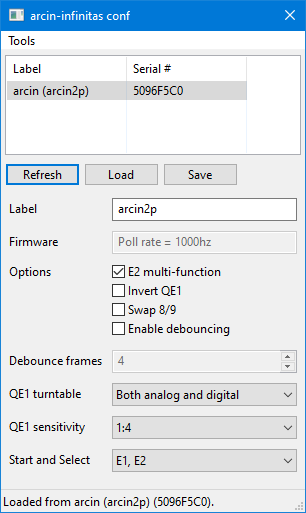
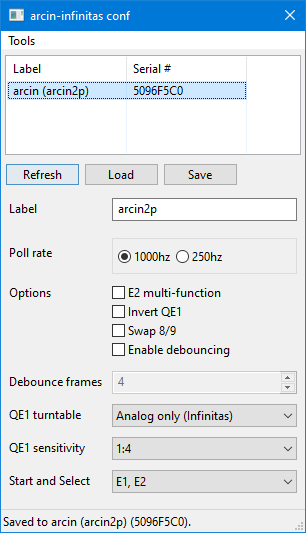
add 250hz toggle

diff --git a/main.py b/main.py
@@ -59,7 +59,7 @@ ARCIN_CONFIG_FLAG_INVERT_QE1             = (1 << 1)
 ARCIN_CONFIG_FLAG_SWAP_8_9               = (1 << 2)
 ARCIN_CONFIG_FLAG_DIGITAL_TT_ENABLE      = (1 << 3)
 ARCIN_CONFIG_FLAG_DEBOUNCE               = (1 << 4)
-ARCIN_CONFIG_FLAG_250HZ_READ_ONLY        = (1 << 5)
+ARCIN_CONFIG_FLAG_250HZ_MODE             = (1 << 5)
 ARCIN_CONFIG_FLAG_ANALOG_TT_FORCE_ENABLE = (1 << 6)
 
 def get_devices():
@@ -164,7 +164,7 @@ class MainWindowFrame(wx.Frame):
     e1e2_ctrl = None
 
     def __init__(self, *args, **kw):
-        default_size = (320, 520)
+        default_size = (320, 540)
         kw['size'] = default_size
         kw['style'] = (
             wx.RESIZE_BORDER |
@@ -220,11 +220,10 @@ class MainWindowFrame(wx.Frame):
         grid.Add(self.title_ctrl, pos=(row, 1), flag=wx.EXPAND)
         row += 1
 
-        fw_label = wx.StaticText(panel, label="Firmware")
-        self.fw_ctrl = wx.TextCtrl(panel, style=wx.TE_READONLY)
-        self.fw_ctrl.Disable()
+        fw_label = wx.StaticText(panel, label="Poll rate")
+        self.poll_rate_ctrl = wx.RadioBox(panel, choices=["1000hz", "250hz"])
         grid.Add(fw_label, pos=(row, 0), flag=wx.ALIGN_CENTER_VERTICAL)
-        grid.Add(self.fw_ctrl, pos=(row, 1), flag=wx.EXPAND)
+        grid.Add(self.poll_rate_ctrl, pos=(row, 1), flag=wx.EXPAND)
         row += 1
 
         checklist_label = wx.StaticText(panel, label="Options")
@@ -417,6 +416,9 @@ class MainWindowFrame(wx.Frame):
         if self.debounce_check.IsChecked():
             flags |= ARCIN_CONFIG_FLAG_DEBOUNCE
 
+        if self.poll_rate_ctrl.GetSelection() == 1:
+            flags |= ARCIN_CONFIG_FLAG_250HZ_MODE
+
         if self.qe1_tt_ctrl.GetSelection() == 1:
             flags |= ARCIN_CONFIG_FLAG_DIGITAL_TT_ENABLE
         elif self.qe1_tt_ctrl.GetSelection() == 2:
@@ -461,10 +463,10 @@ class MainWindowFrame(wx.Frame):
         self.debounce_check.SetValue(
             bool(conf.flags & ARCIN_CONFIG_FLAG_DEBOUNCE))
 
-        if conf.flags & ARCIN_CONFIG_FLAG_250HZ_READ_ONLY:
-            self.fw_ctrl.SetValue("Poll rate = 250hz")
+        if conf.flags & ARCIN_CONFIG_FLAG_250HZ_MODE:
+            self.poll_rate_ctrl.Select(1)
         else:
-            self.fw_ctrl.SetValue("Poll rate = 1000hz")
+            self.poll_rate_ctrl.Select(0)
 
         if (conf.flags & ARCIN_CONFIG_FLAG_DIGITAL_TT_ENABLE and
             conf.flags & ARCIN_CONFIG_FLAG_ANALOG_TT_FORCE_ENABLE):
